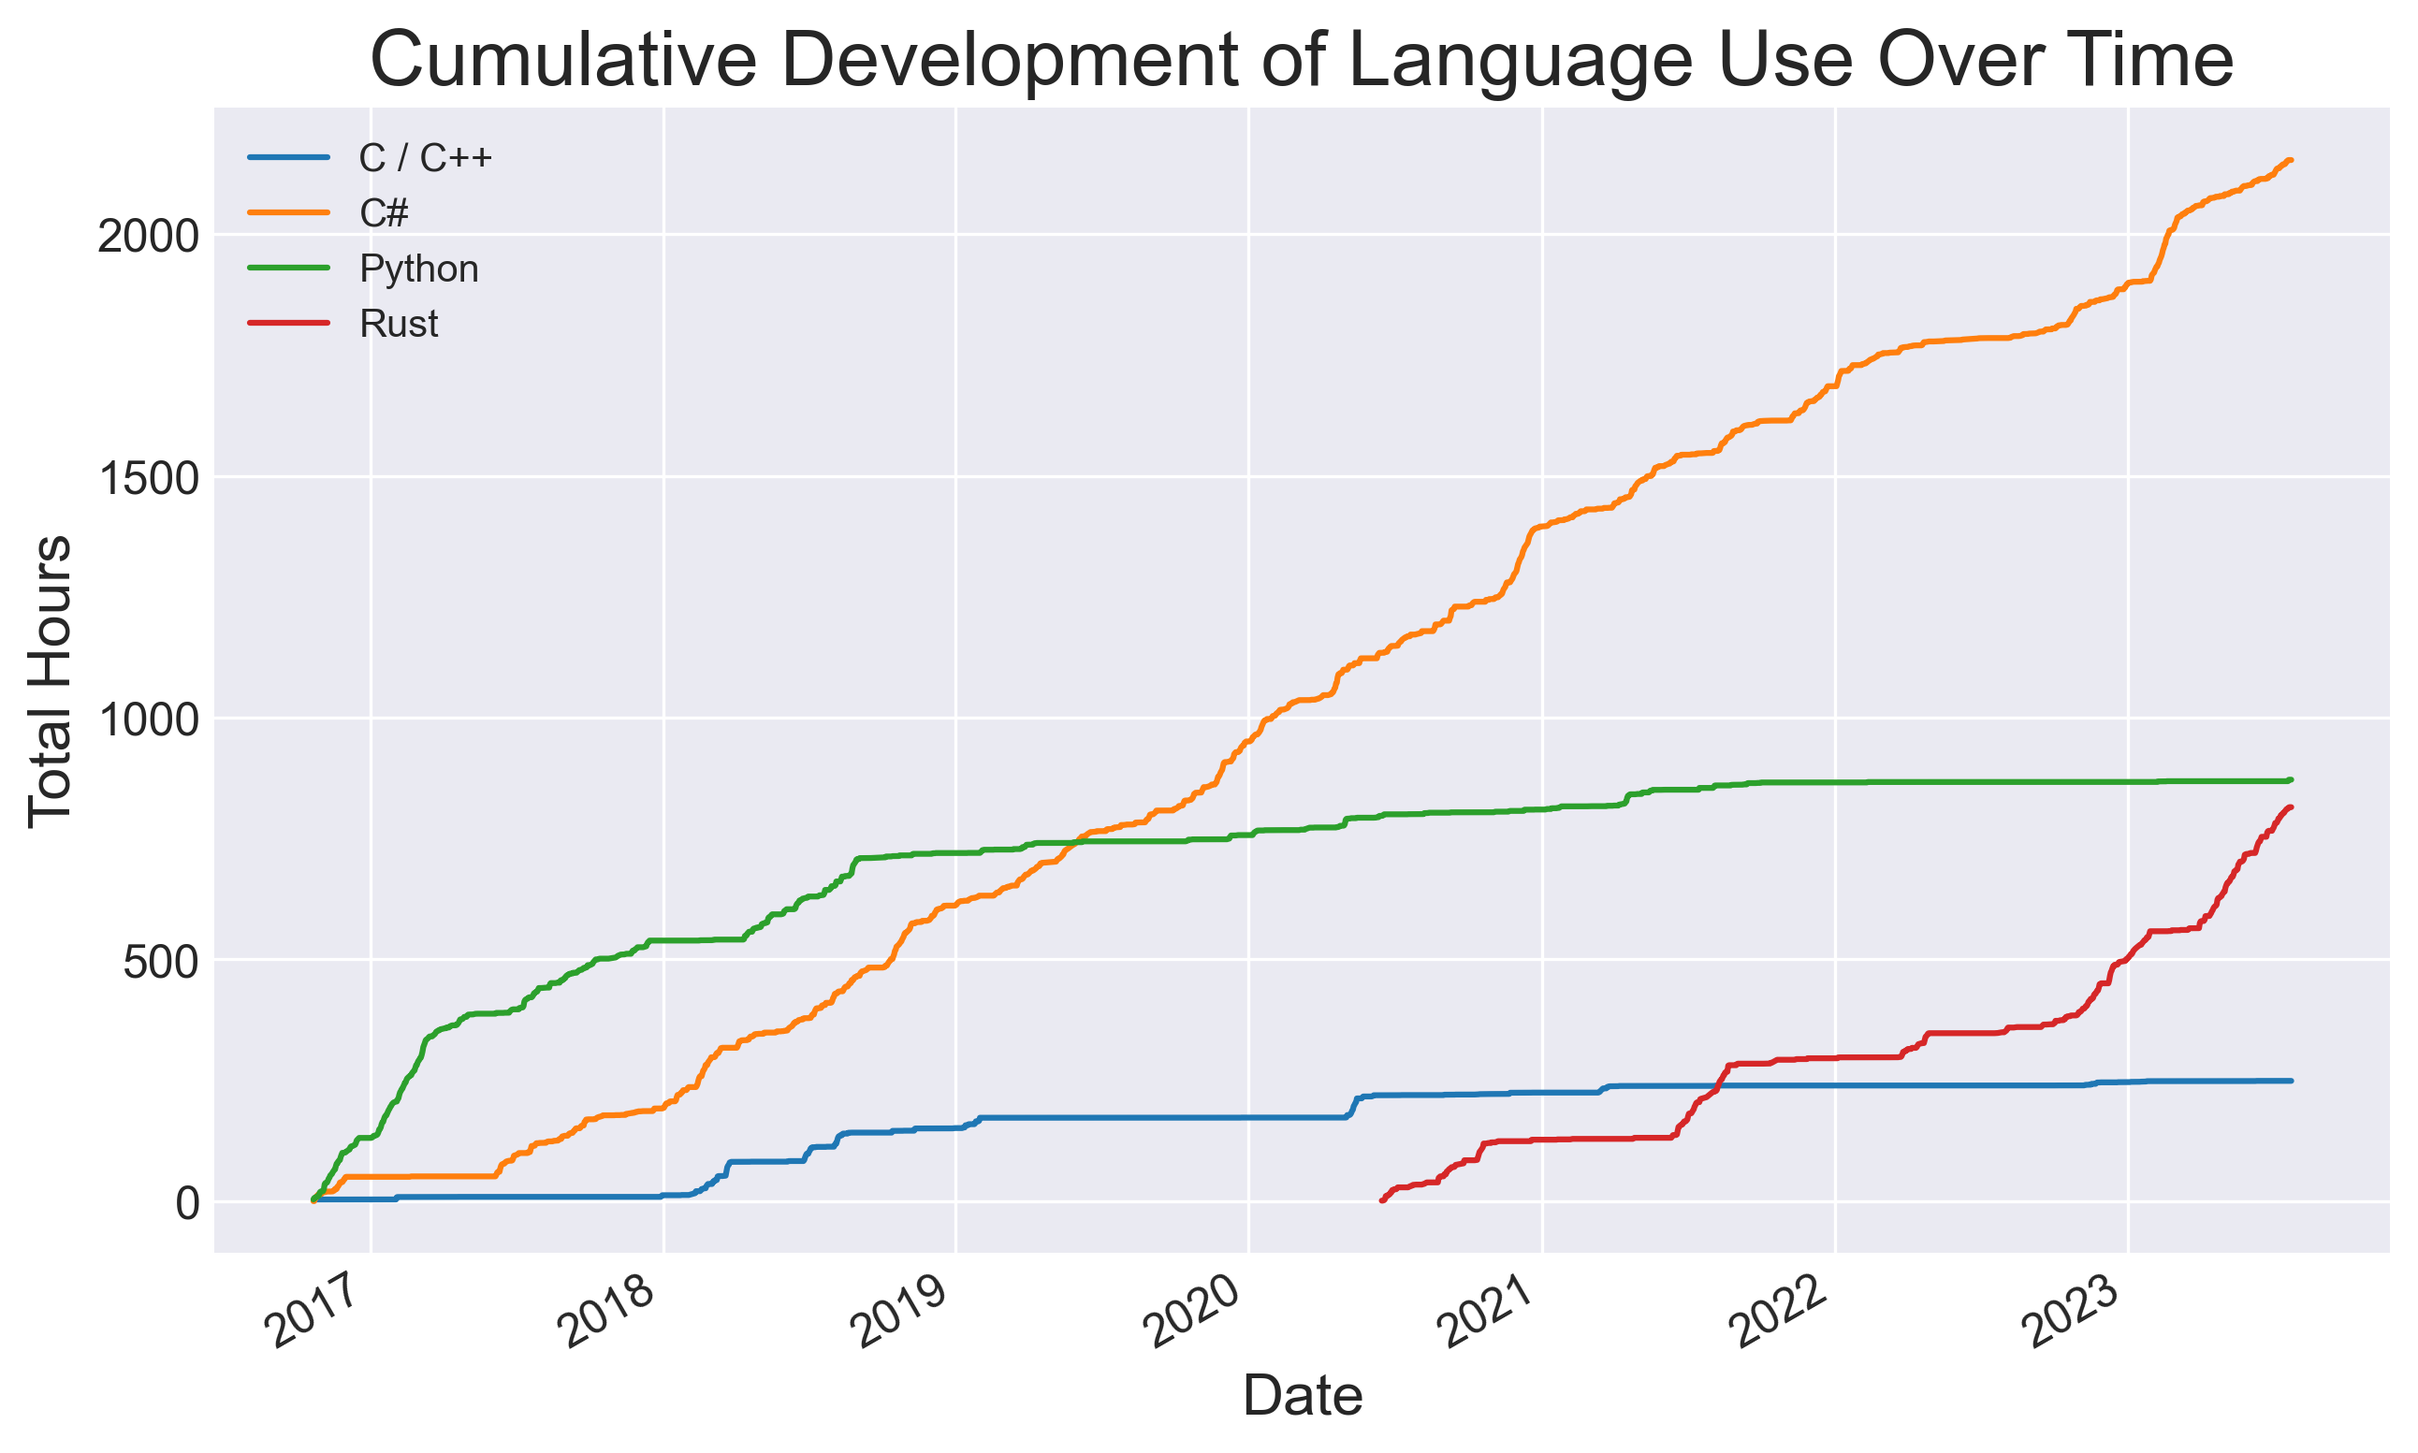
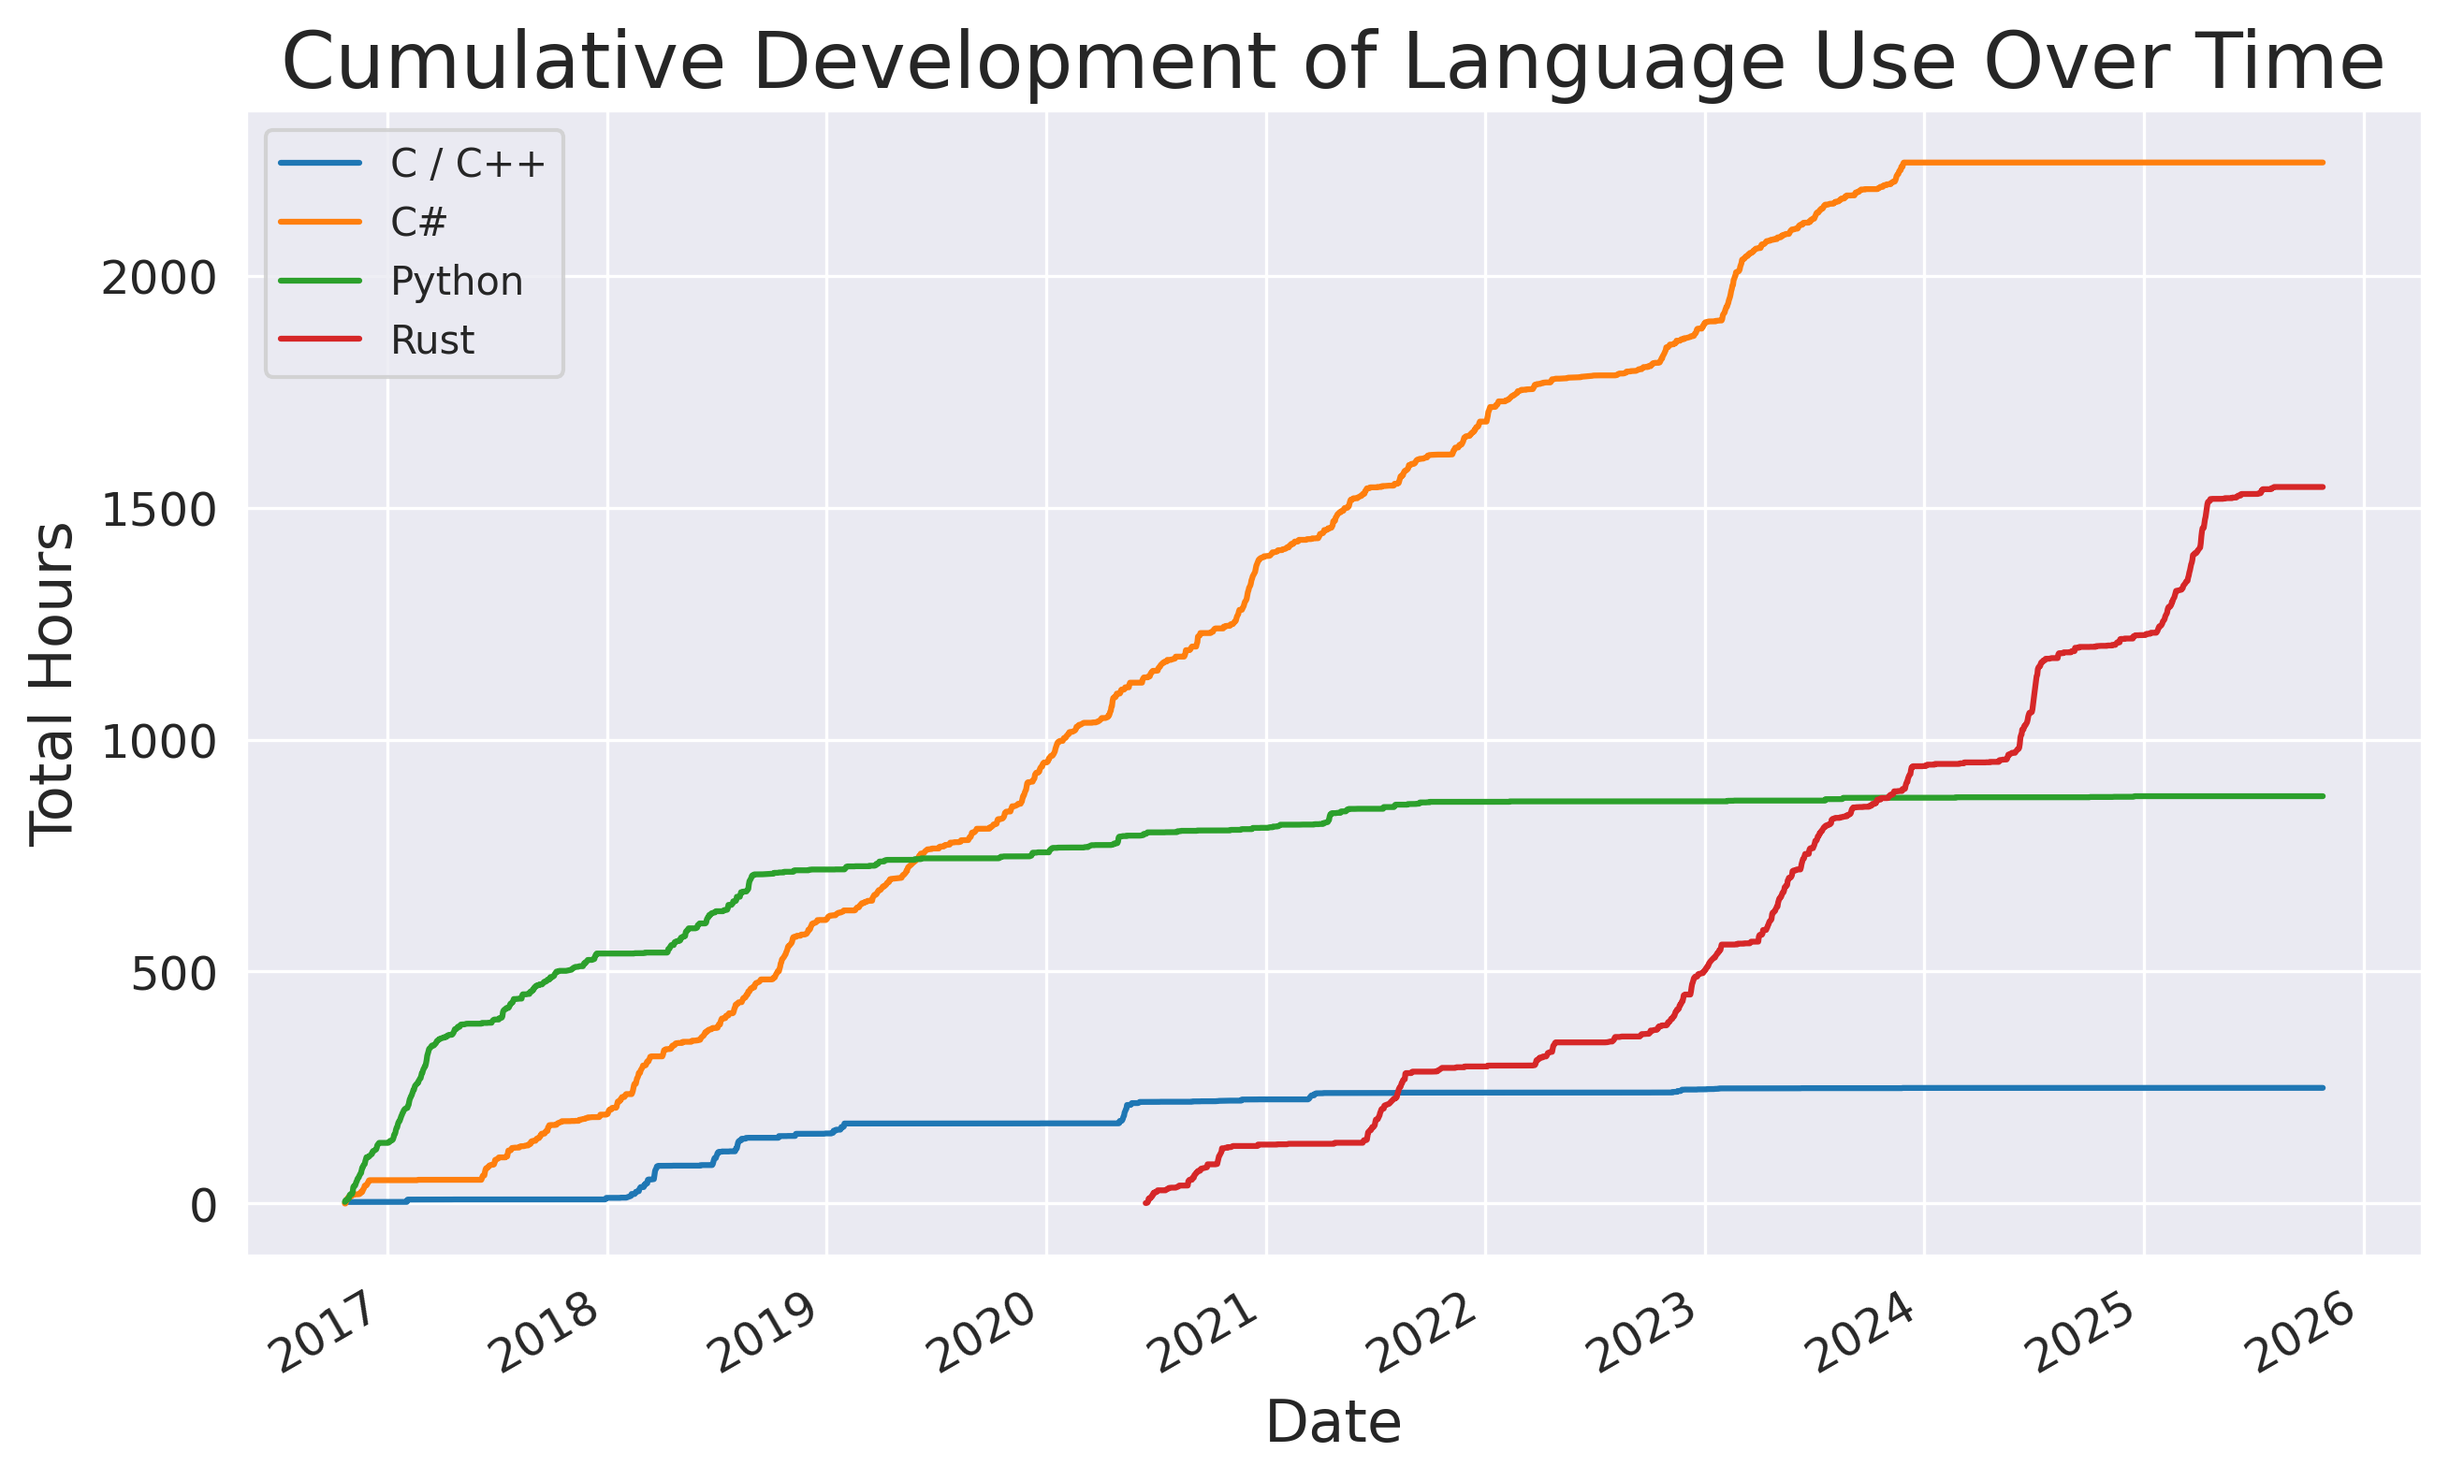
Update visuals and README.md

diff --git a/README.md b/README.md
@@ -5,21 +5,21 @@ use of programming languages and periodically fetch the daily stats from the Wak
 my [coding-stats.json Gist](https://gist.github.com/sunsided/667936bd0d4d5f042ea4e6726c5faccb)). Since
 recording only started in 2016, large chunks of C#, C/C++, Matlab and other languages are missing.
 
-In this repo, I ran some trivial analytics from those JSON files. If for whatever reason you are
+In this repo, I ran some trivial analytics from the recorded history. If for whatever reason you are
 interested, the `redacted.csv` contains the language-specific information. I excluded other source
 data from this repo since it can hypothetically contain mildly sensitive details such as project
 and machine names.
 
 I mainly wanted to see how my Rust journey went compared to other languages and at the very least
-it's interesting to say that within the last two-ish years as of writing this, I spent as much time
+it's interesting to say that within two-ish years of using Rust, I spent as much time
 writing Rust code as I spent time writing Python code since the recording started.
 
 ![](images/language_development.png)
 
 The C# curve is pretty linear, which is not surprising since I have been working in .NET focused
-companies since 2008 and therefore use C# a lot during my work life. What is interesting, however
-is that for the last three years I have not actively assumed the role of a software developer
-and _still_ maintained a linear progression there.
+companies from 2008 until 2025 and therefore used C# a lot during my work life. What is interesting, 
+however, is that for at multiple years I had not actively assumed the role of a software developer
+and _still_ maintained a linear progression there. The same story later on repeated with Rust.
 
 This also tells a story about COVID. During the period of 2020..2022, a lot of work was done from
 home. The below plot shows the deviation of my actual C# coding times from a linear regression
